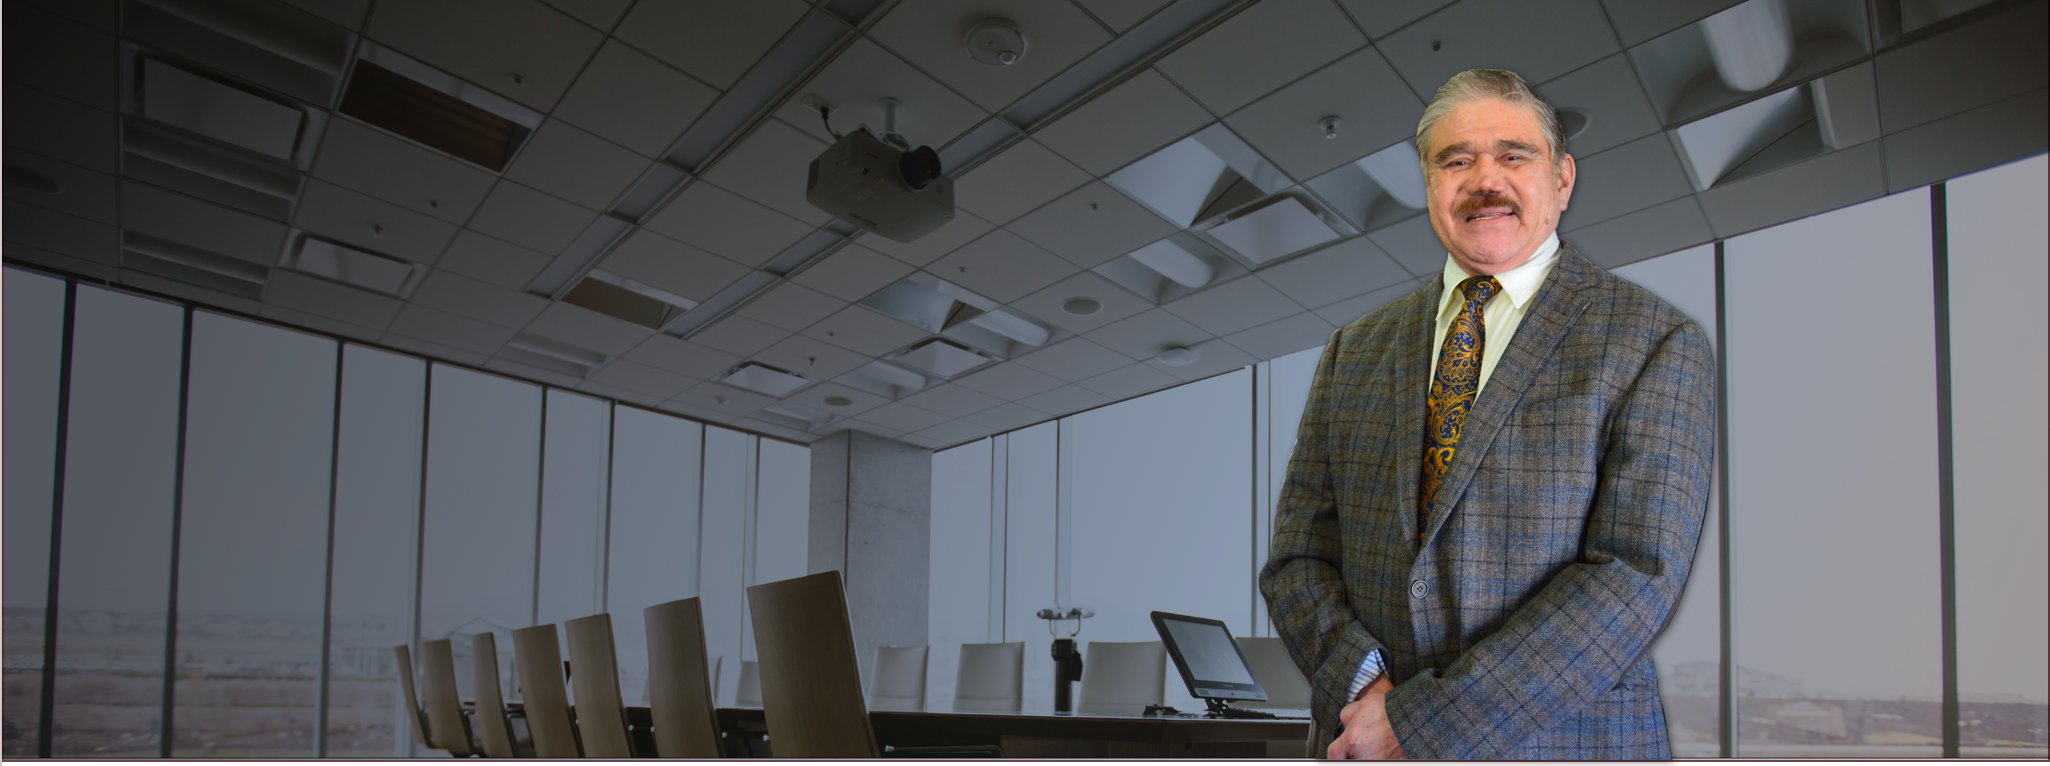
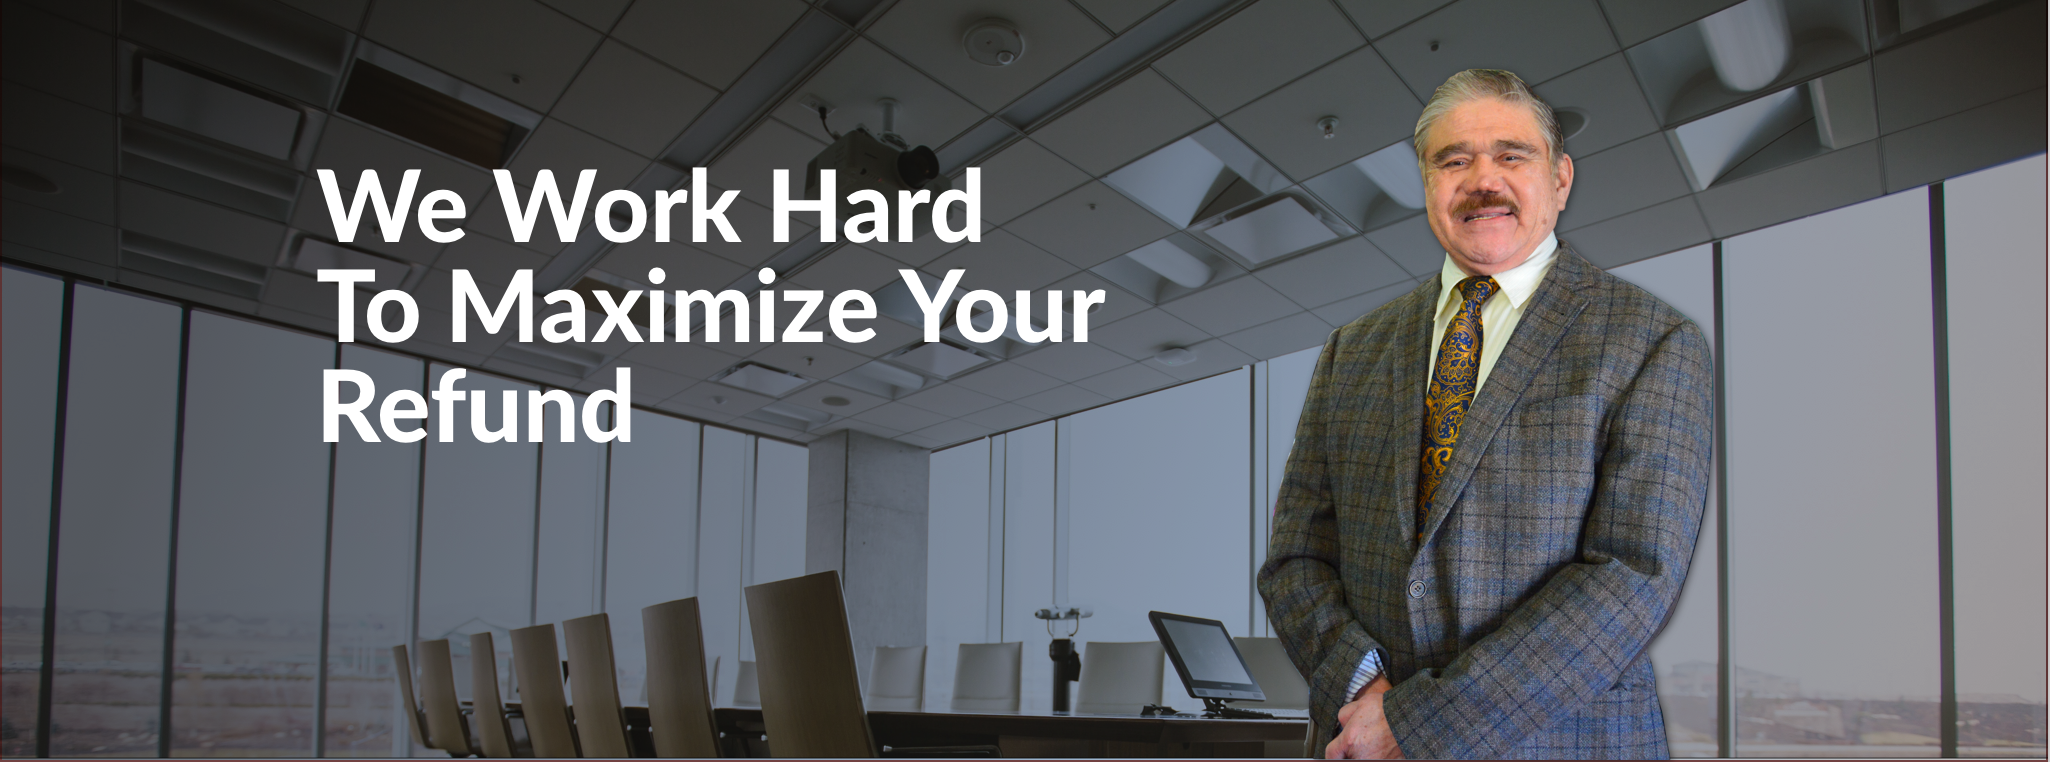
added responsive design based on width

diff --git a/services.html b/services.html
@@ -32,61 +32,58 @@
     </ul>
   </div>
 </nav>
-<div class="heroimg">
-  <img src="img/deal.png" class="img-fluid" >
-  <div class="heroimg--services">
-    <h1 class="services">Our Services</h1>
+<img src="img/deal.png" class="img-fluid" >
+
+<div class="container service-spacing">
+  <div class="card-deck">
+    <div class="card bluecard">
+      <div class="card-body">
+        <h5 class="card-title">Tax Preperation</h5>
+        <p class="card-text">
+          1040, 1040As, 1120s
+        </p>
+      </ul>
+      </div>
+    </div>
+    <div class="card contrastcard">
+      <div class="card-body">
+        <h5 class="card-title">Notorary</h5>
+        <p class="card-text">
+          Travel authorizations
+          Translations of birth certificates
+          and any document in Spanish or English
+        </p>
+      </ul>
+      </div>
+    </div>
   </div>
 </div>
 
-<div class="container-fluid services-container">
-
-  <div class="card" style="width: 18rem;">
-    <div class="card-body">
-      <h5 class="card-title">Card title</h5>
-      <p class="card-text">Some quick example text to build on the card title and make up the bulk of the card's content.</p>
-    </div>
-    <ul class="list-group list-group-flush">
-      <li class="list-group-item">Cras justo odio</li>
-      <li class="list-group-item">Dapibus ac facilisis in</li>
-      <li class="list-group-item">Vestibulum at eros</li>
-    </ul>
-    <div class="card-body">
-      <a href="#" class="card-link">Card link</a>
-      <a href="#" class="card-link">Another link</a>
-    </div>
+<div class="container service-spacing">
+  <div class="card-deck">
+      <div class="card bluecard">
+        <div class="card-body">
+          <h5 class="card-title">Translating Services</h5>
+          <p class="card-text">
+            We assist with travel authorization Form l131s,
+            translations of birth certificates or any other
+            document that needs to be certified.”
+            1040, 1040As, 1120s
+          </p>
+        </ul>
+        </div>
+      </div>
+      <div class="card contrastcard">
+        <div class="card-body">
+          <h5 class="card-title">Financial Consultations</h5>
+          <p class="card-text">
+            Most queries for free
+            Assistance with business matters
+          </p>
+        </ul>
+        </div>
+      </div>
   </div>
-  <div class="card" style="width: 18rem;">
-    <div class="card-body">
-      <h5 class="card-title">Card title</h5>
-      <p class="card-text">Some quick example text to build on the card title and make up the bulk of the card's content.</p>
-    </div>
-    <ul class="list-group list-group-flush">
-      <li class="list-group-item">Cras justo odio</li>
-      <li class="list-group-item">Dapibus ac facilisis in</li>
-      <li class="list-group-item">Vestibulum at eros</li>
-    </ul>
-    <div class="card-body">
-      <a href="#" class="card-link">Card link</a>
-      <a href="#" class="card-link">Another link</a>
-    </div>
-  </div>
-  <div class="card" style="width: 18rem;">
-    <div class="card-body">
-      <h5 class="card-title">Card title</h5>
-      <p class="card-text">Some quick example text to build on the card title and make up the bulk of the card's content.</p>
-    </div>
-    <ul class="list-group list-group-flush">
-      <li class="list-group-item">Cras justo odio</li>
-      <li class="list-group-item">Dapibus ac facilisis in</li>
-      <li class="list-group-item">Vestibulum at eros</li>
-    </ul>
-    <div class="card-body">
-      <a href="#" class="card-link">Card link</a>
-      <a href="#" class="card-link">Another link</a>
-    </div>
-  </div>
-</div>
 </div>
 <div id="contactus" class="contact-container">
   <img class="img-fluid" src="img/orangerectangle.png">

diff --git a/index.html b/index.html
@@ -32,18 +32,7 @@
     </ul>
   </div>
 </nav>
-<div class="heroimg">
-  <img src="img/chavas.png" class="img-fluid" >
-  <div class="heroimg--tagline">
-    <h1 class="tagline">
-      <span id="work">We Work Hard</span>
-      <br>
-      <span id="max">To Maximize</span>
-      <br>
-      <span id="refund">Refund</span>
-    </h1>
-  </div>
-</div>
+<img src="img/chavas.png" class="img-fluid" >
 <div class="container-fluid">
     <div class="intro">
     <div class="row">
@@ -74,10 +63,10 @@
     </div>
   </div>
 </div>
-<div class="container-fluid">
-  <div class="row services">
+<div class="container-fluid landingservices">
+  <div class="row">
     <div class="col-lg-12">
-      <h2 class="text-center">Our Services</h2>
+      <h2 class="text-center services-title">Our Services</h2>
     </div>
   </div>
   <div class="row text-center">
@@ -109,7 +98,7 @@
     </div>
   </div>
 </div>
-<div id="contactus" class="contact-container">
+<div id="contactus" class="contact-container contactus">
   <img class="img-fluid" src="img/rectangle.png">
   <div class="contactinfo">
     <div class="row">
@@ -148,6 +137,35 @@
         <h2>Phone Number</h2>
         <p>510-428-1403</p>
       </div>
+    </div>
+  </div>
+</div>
+<div class="container service-spacing contactusagain">
+  <div class="card-deck">
+    <div class="card bluecard">
+      <div class="card-body">
+        <h2 class="card-title">Contact Us</h2>
+        <p class="card-text">
+              <h3>Address</h3>
+              <p>959 45th Street Oakland, CA 94608</p>
+              <h2>Email</h2>
+              <p>sanchez7529@sbcglobal.net</p>
+        </div>
+        </p>
+      </ul>
+    </div>
+    <div class="card contrastcard">
+      <div class="card-body">
+        <h2 class="card-title">Business Hours</h2>
+        <p class="card-text">
+              <h5>Monday - Friday: 8am to 6pm</h5>
+              <h5>Saturday: 8am to 6pm</h5>
+              <h5>Sunday: Closed</h5>
+              <h3>Phone Number</h3>
+              <p>510-428-1403</p>
+        </div>
+        </p>
+      </ul>
     </div>
   </div>
 </div>

diff --git a/style.css b/style.css
@@ -1,10 +1,42 @@
 html, body {
  font-family: 'Lato', sans-serif;
 }
+@media only screen and (max-width: 1200px) {
+  .contactus {
+    display:none;
+  }
+}
+@media only screen and (min-width: 1200px) {
+  .contactusagain {
+    display:none;
+  }
+}
+
+.services-title {
+  margin-bottom: 40px;
+}
+
+.bluecard {
+  background-color: #D7E9FF;
+}
+
+.contrastcard {
+  background-color: #F8F2F2;
+}
+
+.landingservices {
+  margin-top:100px;
+  margin-bottom: 40px;
+}
+
+.service-spacing {
+  margin-top: 80px;
+  margin-bottom: 80px;
+}
 
 .tagline {
   font-size: 5em;
-  font-weight: heavy;
+  font-weight:500;
 }
 .services {
   font-size: 5em;
@@ -16,11 +48,12 @@ html, body {
 }
 
 .heroimg--tagline{
-  color: white;
+  text-align: left;
   position: absolute;
-  top: 2%;
-  left: 20%;
-  width: 100%;
+  top: 50%;
+  left: 40%;
+  transform: translate(-50%, -50%);
+  color: white;
 }
 
 .heroimg--services {
@@ -36,8 +69,12 @@ html, body {
   padding-top: 30px;
 }
 .services {
-  margin-top: 80px;
-  margin-bottom: 60px;
+    text-align: center;
+    position: absolute;
+    top: 50%;
+    left: 50%;
+    transform: translate(-50%, -50%);
+    color: white;
 }
 .services-container {
   margin-top: 80px;
@@ -52,11 +89,6 @@ html, body {
   margin-top:100px;
   margin-bottom: 100px;
 }
-
-.SlantsContainer {
-	position: relative;
-}
-
 .parent{
   position:relative;
 }
@@ -70,11 +102,11 @@ html, body {
   position: absolute;
   top: 10%;
   left: 10px;
-  width: 100%;
+  /* width: 100%; */
 }
 .businesshours {
   position: absolute;
   top: 50%;
   left: 65%;
-  width: 100%;
+  /* width: 100%; */
 }
